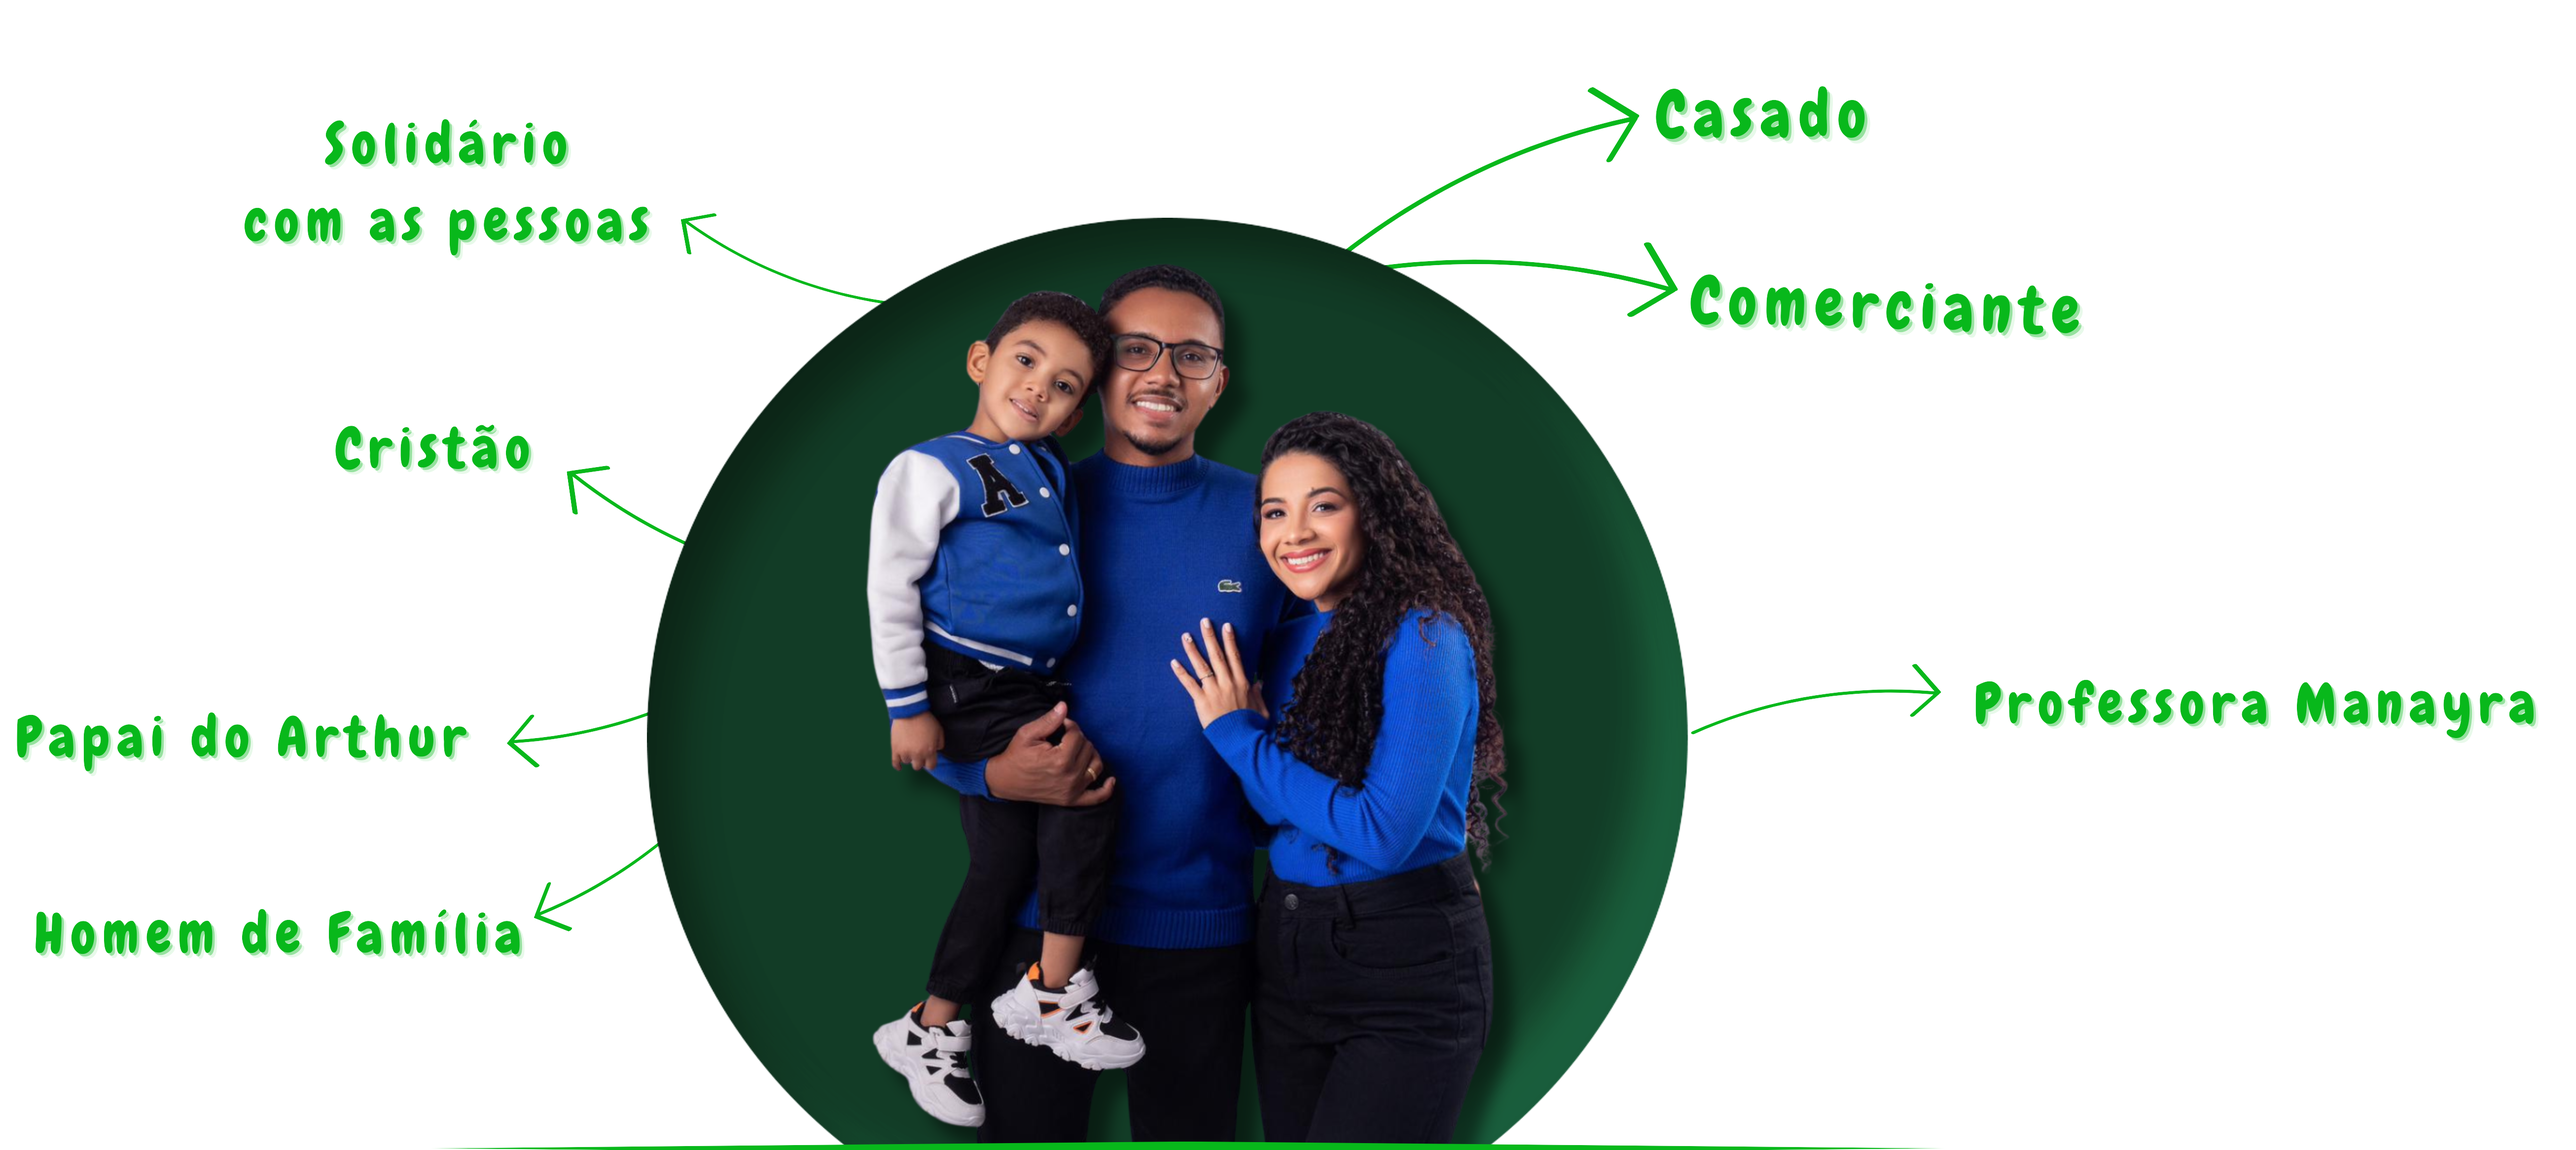
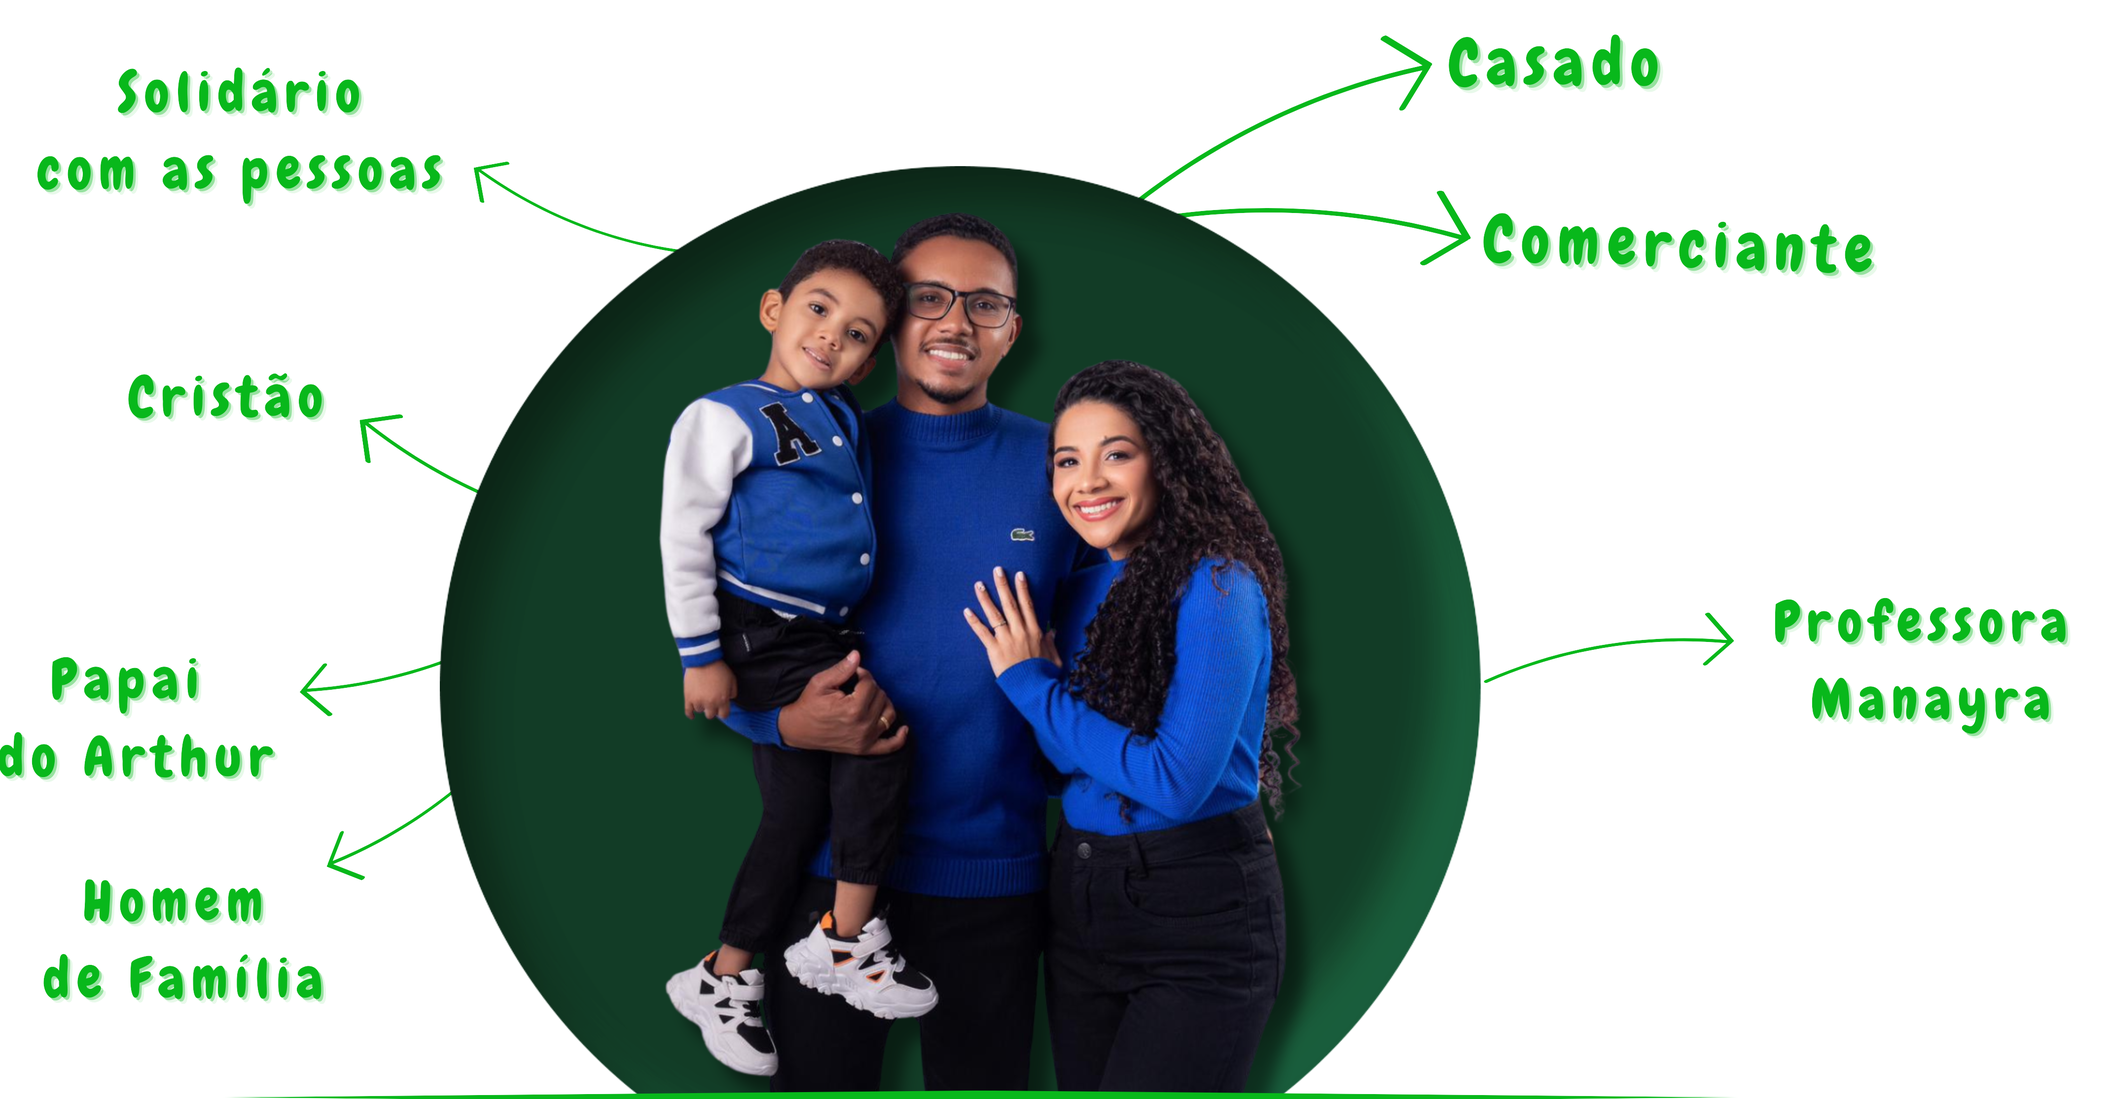
alt

diff --git a/estilo/style.css b/estilo/style.css
@@ -26,8 +26,8 @@
         font-size: 15px;
     }
     #img-sobremim{
-        height: 140px;
-        margin-left: 10px;
+        height: 175px;
+        margin-right: 3px;
     }
 
     header {
